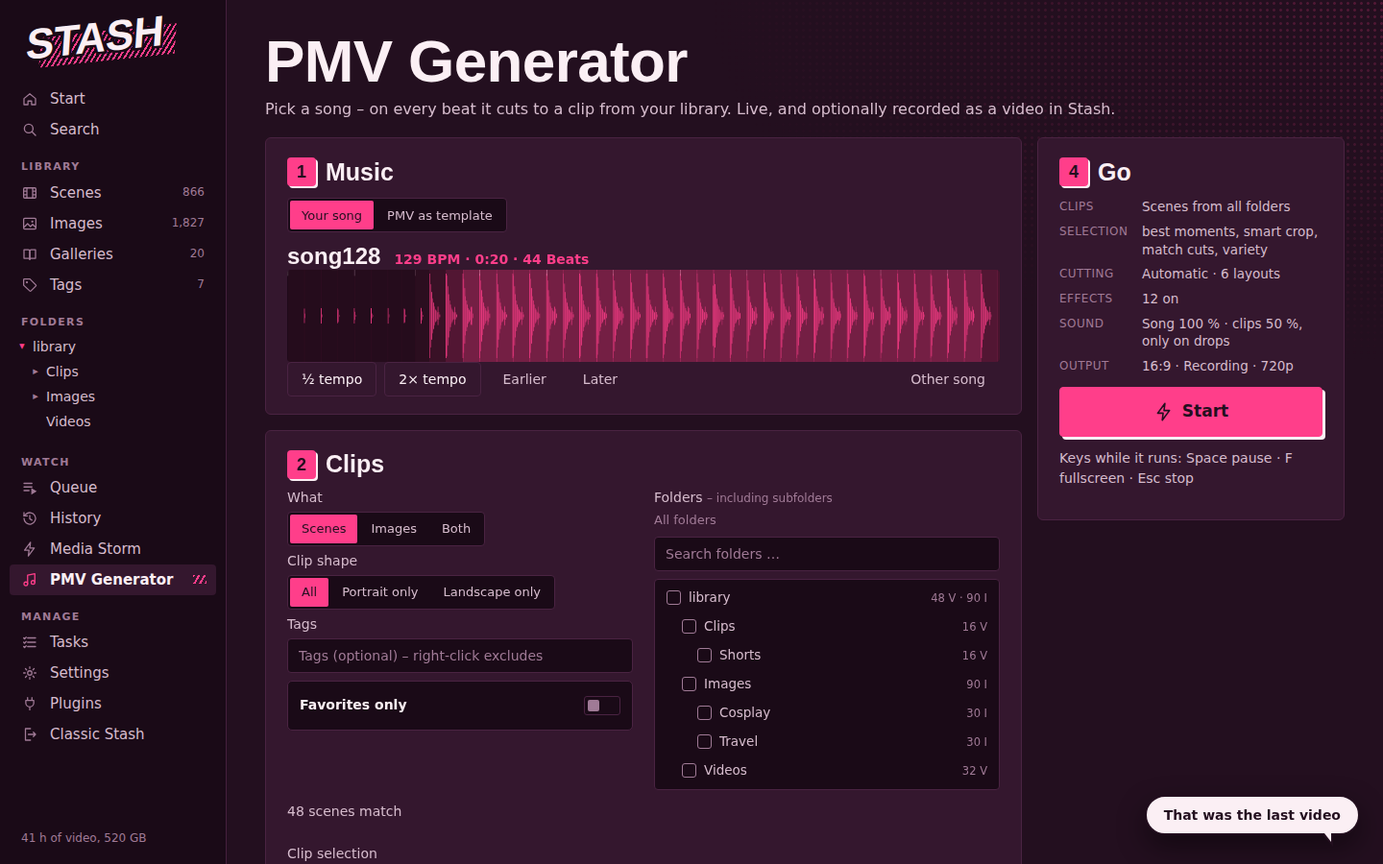
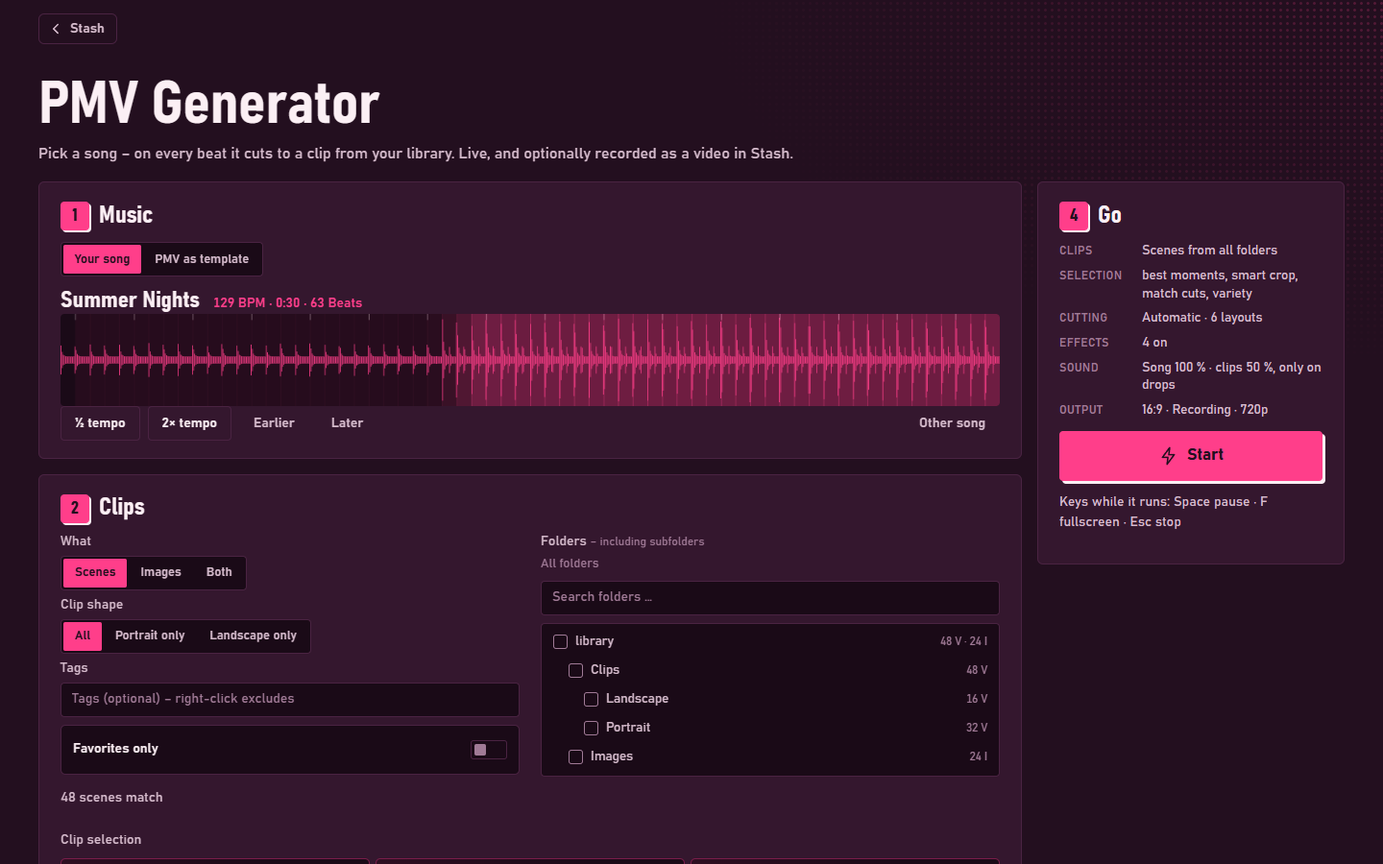
PMV Generator 2.1.0: sections instead of tabs, Fit by default, calmer effects; new screenshots
Same changes as the web version (pmvgen.github.io):
- Style settings are collapsible sections (all open, each header toggles,
  Collapse all / Expand all, remembered) instead of tabs that didn't look
  clickable.
- Fit (whole clip, blurred border) is the default instead of Fill; saved
  settings from before are switched once.
- Default effects: zoom-in entry, flash, zoom pulse and RGB split.

New screenshots of the plugin page (setup, style, live show) made with
neutral placeholder clips; the old Stash UI based ones are replaced.

diff --git a/plugins/pmvGenerator/app/js/views/pmvgen.js b/plugins/pmvGenerator/app/js/views/pmvgen.js
@@ -30,7 +30,8 @@ const DEFAULTS = {
   matchCut: true, // pick the best-matching clip at each cut
   cut: "auto",
   layouts: { full: true, kaleido: true, duo: true, trim: true, tri: true, quad: true },
-  fx: { flash: true, zoom: true, shake: true, glitch: true, stutter: true, hue: false, rgb: true, echo: true, tunnel: true, invert: true, whip: true, zoomin: true, speed: true, voice: true, vhs: false, strobe: false, text: false, kenburns: true, lines: true },
+  // Effects: a calm start – zoom-in entry, flash, zoom pulse and RGB split; the rest is opt-in
+  fx: { flash: true, zoom: true, shake: false, glitch: false, stutter: false, hue: false, rgb: true, echo: false, tunnel: false, invert: false, whip: false, zoomin: true, speed: false, voice: true, vhs: false, strobe: false, text: false, kenburns: true, lines: true },
   words: "",
   look: "none", // color look: none | warm | pink | cold | bw | noir | vivid
   lookEven: true, // even out clip brightness
@@ -42,10 +43,11 @@ const DEFAULTS = {
   title: "", // empty = song name
   format: "16:9",
   split: "cols",
-  fit: "cover",
+  fit: "contain", // contain = whole clip, blurred border (less confusing than cropping); cover = fill
   quality: 720,
   record: true,
-  tab: "cut", // last open style tab
+  collapsed: {}, // style sections the user closed (all open by default)
+  v: 2, // settings version
 };
 const FX = {
   flash: ["Flash", "Bright flash on cuts and drops"],
@@ -97,19 +99,27 @@ const CUTS = [
   ["2", "Every 2 beats", ""],
   ["4", "Every 4 beats", ""],
 ];
-const TABS = [
-  ["cut", "Cutting"],
-  ["fx", "Effects"],
-  ["look", "Look"],
-  ["sound", "Sound"],
-  ["out", "Output"],
+const SECTIONS = [
+  ["cut", "Cutting", "When to cut and which split screens"],
+  ["fx", "Effects", "What happens on cuts, beats and drops"],
+  ["look", "Look & picture", "Colors, format and how clips fill the frame"],
+  ["sound", "Sound", "Song and clip volume"],
+  ["out", "Output", "Intro, outro and recording"],
 ];
+const CHEVRON = `<svg class="kb-pmvg-chev" viewBox="0 0 24 24" aria-hidden="true"><path d="m6 9 6 6 6-6" fill="none" stroke="currentColor" stroke-width="2.2" stroke-linecap="round" stroke-linejoin="round"/></svg>`;
 
 // A row with a switch; path = "bestSpots" or "fx.flash"
 const sw = (path, name, desc) =>
   `<label class="kb-pmvg-opt"><span><b>${esc(name)}</b>${desc ? `<small>${esc(desc)}</small>` : ""}</span>` +
   `<span class="kb-switch"><input type="checkbox" data-t="${path}"><i></i></span></label>`;
 const fxSw = (k) => sw("fx." + k, FX[k][0], FX[k][1]);
+// Header of a style section: the whole bar opens/closes it
+function secHead(key) {
+  const [, name, sub] = SECTIONS.find(([k]) => k === key);
+  return `<button type="button" class="kb-pmvg-sechead" data-toggle="${key}" aria-controls="pmvg-pane-${key}">
+    <span class="kb-pmvg-sectitle"><b>${name}</b><small data-tabsum="${key}"></small></span>
+    <span class="kb-pmvg-secsub">${sub}</span>${CHEVRON}</button>`;
+}
 const getPath = (S, p) => p.split(".").reduce((o, k) => (o ? o[k] : undefined), S);
 function setPath(S, p, v) {
   const ks = p.split(".");
@@ -118,9 +128,13 @@ function setPath(S, p, v) {
 }
 
 export function render(main) {
-  const S = Object.assign({}, DEFAULTS, store.get("pmvgen", {}));
+  const stored = store.get("pmvgen", {});
+  const S = Object.assign({}, DEFAULTS, stored);
   S.fx = Object.assign({}, DEFAULTS.fx, S.fx);
   S.layouts = Object.assign({}, DEFAULTS.layouts, S.layouts);
+  S.collapsed = Object.assign({}, S.collapsed);
+  // Settings from before version 2 had "Fill" as default – people took the cropping for a bug
+  if (!stored.v) S.fit = "contain";
   if (!Array.isArray(S.folders)) S.folders = [];
   const save = () => store.set("pmvgen", S);
   let song = null; // beat detection result + name
@@ -213,66 +227,81 @@ export function render(main) {
           <span class="kb-lab-t">Mood <small>– sets cutting, layouts and effects in one go</small></span>
           <div class="kb-chips" data-presets>${Object.entries(PRESETS).map(([k, p]) => `<button type="button" class="kb-chip kb-pmvg-preset" data-preset="${k}">${p.name}</button>`).join("")}</div>
         </div>
-        <div class="kb-pmvg-tabs" role="tablist">${TABS.map(([k, l]) => `<button type="button" role="tab" data-tab="${k}">${l}<small data-tabsum="${k}"></small></button>`).join("")}</div>
+        <div class="kb-pmvg-sechead-all"><span class="kb-lab-t">Settings</span><button type="button" class="kb-btn is-ghost" data-collapseall></button></div>
 
-        <div class="kb-pmvg-pane" data-pane="cut">
-          <span class="kb-lab-t">Cutting</span>
-          <div class="kb-seg" data-seg="cut">${CUTS.map(([v, l, t]) => `<button type="button" data-v="${v}" title="${esc(t)}">${l}</button>`).join("")}</div>
-          <span class="kb-lab-t">Layouts <small>– change to the beat, the louder the more fields</small></span>
-          <div class="kb-chips kb-pmvg-layouts" data-layouts>${Object.entries(LAYOUTS).map(([k, l]) => `<button type="button" class="kb-chip" data-l="${k}" title="${esc(l.hint)}">${layoutIcon(k)}${l.name}</button>`).join("")}</div>
-          <span class="kb-lab-t">Fields in 2-/3-way layouts</span>
-          <div class="kb-seg" data-seg="split"><button type="button" data-v="cols" title="Columns – also in portrait format">side by side</button><button type="button" data-v="rows" title="Rows">stacked</button></div>
-          <p class="kb-hint kb-pmvg-tip" data-tip hidden></p>
-        </div>
-
-        <div class="kb-pmvg-pane" data-pane="fx" hidden>
-          ${FX_GROUPS.map(([name, sub, keys]) => `
-            <div class="kb-pmvg-group">
-              <div class="kb-pmvg-grouphead"><b>${name}</b>${sub ? `<small>${sub}</small>` : ""}<span class="kb-spacer"></span>
-                <button type="button" class="kb-btn is-ghost kb-pmvg-all" data-all="${keys.join(",")}">All on</button></div>
-              <div class="kb-pmvg-opts">${keys.map(fxSw).join("")}</div>
-              ${keys.includes("text") ? `<input class="kb-field kb-pmvg-words" data-words placeholder="Words for “Text”, comma separated – e.g. DROP, MORE, YES" value="${esc(S.words)}">` : ""}
-            </div>`).join("")}
-        </div>
-
-        <div class="kb-pmvg-pane" data-pane="look" hidden>
-          <span class="kb-lab-t">Color look <small>– all clips in the same color mood</small></span>
-          <div class="kb-seg kb-pmvg-looks" data-seg="look">${LOOKS.map(([v, l]) => `<button type="button" data-v="${v}"><i class="kb-pmvg-lookdot is-${v}"></i>${l}</button>`).join("")}</div>
-          <div class="kb-pmvg-opts">
-            ${sw("lookEven", "Even out brightness", "Clips that are too dark get brightened, too bright ones toned down – looks all of a piece")}
-            ${LOOK_FX.map(fxSw).join("")}
-          </div>
-          <span class="kb-lab-t">Picture</span>
-          <div class="kb-pmvg-row">
-            <div class="kb-seg" data-seg="format"><button type="button" data-v="16:9">16:9 landscape</button><button type="button" data-v="9:16">9:16 portrait</button></div>
-            <div class="kb-seg" data-seg="fit"><button type="button" data-v="cover" title="Picture fills everything, edges are cropped">Fill</button><button type="button" data-v="contain" title="Whole picture, rest blurred">Fit</button></div>
+        <div class="kb-pmvg-sec" data-sec="cut">
+          ${secHead("cut")}
+          <div class="kb-pmvg-pane" id="pmvg-pane-cut" data-pane="cut">
+            <span class="kb-lab-t">When to cut</span>
+            <div class="kb-seg" data-seg="cut">${CUTS.map(([v, l, t]) => `<button type="button" data-v="${v}" title="${esc(t)}">${l}</button>`).join("")}</div>
+            <span class="kb-lab-t">Layouts <small>– change to the beat, the louder the more fields</small></span>
+            <div class="kb-chips kb-pmvg-layouts" data-layouts>${Object.entries(LAYOUTS).map(([k, l]) => `<button type="button" class="kb-chip" data-l="${k}" title="${esc(l.hint)}">${layoutIcon(k)}${l.name}</button>`).join("")}</div>
+            <span class="kb-lab-t">Fields in 2-/3-way layouts</span>
+            <div class="kb-seg" data-seg="split"><button type="button" data-v="cols" title="Columns – also in portrait format">side by side</button><button type="button" data-v="rows" title="Rows">stacked</button></div>
+            <p class="kb-hint kb-pmvg-tip" data-tip hidden></p>
           </div>
         </div>
 
-        <div class="kb-pmvg-pane" data-pane="sound" hidden>
-          <span class="kb-lab-t">Volume</span>
-          <div class="kb-pmvg-sound">
-            <label class="kb-pmvg-range"><span>${icon("music")}Song</span><input type="range" min="0" max="100" step="5" data-r="songVol" aria-label="Song volume"><output data-ro="songVol"></output></label>
-            <label class="kb-pmvg-range" data-clipvol><span>${icon("film")}Clips</span><input type="range" min="0" max="100" step="5" data-r="clipVol" aria-label="Clip volume"><output data-ro="clipVol"></output></label>
+        <div class="kb-pmvg-sec" data-sec="fx">
+          ${secHead("fx")}
+          <div class="kb-pmvg-pane" id="pmvg-pane-fx" data-pane="fx">
+            ${FX_GROUPS.map(([name, sub, keys]) => `
+              <div class="kb-pmvg-group">
+                <div class="kb-pmvg-grouphead"><b>${name}</b>${sub ? `<small>${sub}</small>` : ""}<span class="kb-spacer"></span>
+                  <button type="button" class="kb-btn is-ghost kb-pmvg-all" data-all="${keys.join(",")}">All on</button></div>
+                <div class="kb-pmvg-opts">${keys.map(fxSw).join("")}</div>
+                ${keys.includes("text") ? `<input class="kb-field kb-pmvg-words" data-words placeholder="Words for “Text”, comma separated – e.g. DROP, MORE, YES" value="${esc(S.words)}">` : ""}
+              </div>`).join("")}
           </div>
-          <div class="kb-pmvg-opts">${fxSw("voice")}</div>
-          <span class="kb-lab-t" data-voicewhen>Clip audio plays</span>
-          <div class="kb-seg" data-seg="voiceMode"><button type="button" data-v="drops" title="Fade in briefly on drops only – like the voice-overs in real PMVs">Only on drops</button><button type="button" data-v="always" title="The clips can be heard all the time, under the song">Always</button></div>
-          <p class="kb-hint" data-voicehint></p>
-          <p class="kb-hint">Both end up in the recording exactly like this. With several clips at once (split screen) they share the clip volume.</p>
         </div>
 
-        <div class="kb-pmvg-pane" data-pane="out" hidden>
-          <div class="kb-pmvg-opts">
-            ${sw("intro", "Intro", "Title card at the start: your title slams in, comic-SFX style")}
-            ${sw("outro", "Outro", "Credits at the end: the picture fades dark, title and number of clips")}
+        <div class="kb-pmvg-sec" data-sec="look">
+          ${secHead("look")}
+          <div class="kb-pmvg-pane" id="pmvg-pane-look" data-pane="look">
+            <span class="kb-lab-t">Color look <small>– all clips in the same color mood</small></span>
+            <div class="kb-seg kb-pmvg-looks" data-seg="look">${LOOKS.map(([v, l]) => `<button type="button" data-v="${v}"><i class="kb-pmvg-lookdot is-${v}"></i>${l}</button>`).join("")}</div>
+            <div class="kb-pmvg-opts">
+              ${sw("lookEven", "Even out brightness", "Clips that are too dark get brightened, too bright ones toned down – looks all of a piece")}
+              ${LOOK_FX.map(fxSw).join("")}
+            </div>
+            <span class="kb-lab-t">Picture <small>– “Fit” shows the whole clip, “Fill” crops it to fill the frame</small></span>
+            <div class="kb-pmvg-row">
+              <div class="kb-seg" data-seg="format"><button type="button" data-v="16:9">16:9 landscape</button><button type="button" data-v="9:16">9:16 portrait</button></div>
+              <div class="kb-seg" data-seg="fit"><button type="button" data-v="contain" title="Whole picture, rest blurred">Fit</button><button type="button" data-v="cover" title="Picture fills everything, edges are cropped">Fill</button></div>
+            </div>
           </div>
-          <input class="kb-field" data-title placeholder="Title for intro/outro – empty = song name" value="${esc(S.title)}">
-          <div class="kb-pmvg-opts">
-            ${sw("record", "Record", "Saves the result as a video – then download it or save it straight to Stash as a scene")}
+        </div>
+
+        <div class="kb-pmvg-sec" data-sec="sound">
+          ${secHead("sound")}
+          <div class="kb-pmvg-pane" id="pmvg-pane-sound" data-pane="sound">
+            <span class="kb-lab-t">Volume</span>
+            <div class="kb-pmvg-sound">
+              <label class="kb-pmvg-range"><span>${icon("music")}Song</span><input type="range" min="0" max="100" step="5" data-r="songVol" aria-label="Song volume"><output data-ro="songVol"></output></label>
+              <label class="kb-pmvg-range" data-clipvol><span>${icon("film")}Clips</span><input type="range" min="0" max="100" step="5" data-r="clipVol" aria-label="Clip volume"><output data-ro="clipVol"></output></label>
+            </div>
+            <div class="kb-pmvg-opts">${fxSw("voice")}</div>
+            <span class="kb-lab-t" data-voicewhen>Clip audio plays</span>
+            <div class="kb-seg" data-seg="voiceMode"><button type="button" data-v="drops" title="Fade in briefly on drops only – like the voice-overs in real PMVs">Only on drops</button><button type="button" data-v="always" title="The clips can be heard all the time, under the song">Always</button></div>
+            <p class="kb-hint" data-voicehint></p>
+            <p class="kb-hint">Both end up in the recording exactly like this. With several clips at once (split screen) they share the clip volume.</p>
           </div>
-          <span class="kb-lab-t">Recording quality</span>
-          <div class="kb-seg" data-seg="quality"><button type="button" data-v="720">720p</button><button type="button" data-v="1080">1080p</button></div>
+        </div>
+
+        <div class="kb-pmvg-sec" data-sec="out">
+          ${secHead("out")}
+          <div class="kb-pmvg-pane" id="pmvg-pane-out" data-pane="out">
+            <div class="kb-pmvg-opts">
+              ${sw("intro", "Intro", "Title card at the start: your title slams in, comic-SFX style")}
+              ${sw("outro", "Outro", "Credits at the end: the picture fades dark, title and number of clips")}
+            </div>
+            <input class="kb-field" data-title placeholder="Title for intro/outro – empty = song name" value="${esc(S.title)}">
+            <div class="kb-pmvg-opts">
+              ${sw("record", "Record", "Saves the result as a video – then download it or save it straight to Stash as a scene")}
+            </div>
+            <span class="kb-lab-t">Recording quality</span>
+            <div class="kb-seg" data-seg="quality"><button type="button" data-v="720">720p</button><button type="button" data-v="1080">1080p</button></div>
+          </div>
         </div>
       </section>
       </div>
@@ -301,12 +330,15 @@ export function render(main) {
     const words = $("[data-words]");
     if (words) words.hidden = !S.fx.text;
     $("[data-title]").hidden = !S.intro && !S.outro;
-    main.querySelectorAll("[data-tab]").forEach((b) => {
-      const on = b.dataset.tab === S.tab;
-      b.classList.toggle("is-on", on);
-      b.setAttribute("aria-selected", on);
+    main.querySelectorAll("[data-sec]").forEach((sec) => {
+      const open = !S.collapsed[sec.dataset.sec];
+      sec.classList.toggle("is-open", open);
+      sec.querySelector("[data-toggle]").setAttribute("aria-expanded", open);
+      sec.querySelector("[data-pane]").hidden = !open;
     });
-    main.querySelectorAll("[data-pane]").forEach((p) => (p.hidden = p.dataset.pane !== S.tab));
+    const anyOpen = SECTIONS.some(([k]) => !S.collapsed[k]);
+    $("[data-collapseall]").innerHTML = `${CHEVRON}${anyOpen ? "Collapse all" : "Expand all"}`;
+    $("[data-collapseall]").classList.toggle("is-closed", !anyOpen);
     main.querySelectorAll("[data-r]").forEach((r) => {
       r.value = S[r.dataset.r];
       r.style.setProperty("--p", S[r.dataset.r] + "%");
@@ -322,7 +354,7 @@ export function render(main) {
     paintSummary();
   }
 
-  // Summary: on the tabs and in the Go card
+  // Summary: on the section headers and in the Go card
   function paintSummary() {
     const fxOn = Object.keys(FX).filter((k) => S.fx[k] && !LOOK_FX.includes(k) && k !== "voice").length;
     const lays = Object.keys(LAYOUTS).filter((k) => S.layouts[k]).length;
@@ -369,9 +401,15 @@ export function render(main) {
       if (key === "source" || key === "shape") updateCount();
       paintTip();
     }
-    const tab = e.target.closest("[data-tab]");
-    if (tab) {
-      S.tab = tab.dataset.tab;
+    const tog = e.target.closest("[data-toggle]");
+    if (tog) {
+      S.collapsed[tog.dataset.toggle] = !S.collapsed[tog.dataset.toggle];
+      save();
+      paintSegs();
+    }
+    if (e.target.closest("[data-collapseall]")) {
+      const close = SECTIONS.some(([k]) => !S.collapsed[k]);
+      S.collapsed = close ? Object.fromEntries(SECTIONS.map(([k]) => [k, true])) : {};
       save();
       paintSegs();
     }

diff --git a/plugins/pmvGenerator/app/stage.css b/plugins/pmvGenerator/app/stage.css
@@ -276,19 +276,31 @@
 .kb-pmvg-opt b { display: block; color: var(--text); font: 600 14px/1.25 var(--f-text); }
 .kb-pmvg-opt small { display: block; margin-top: 2px; color: var(--faint); font: 400 12.5px/1.35 var(--f-text); }
 
-/* Style tabs */
-.kb-pmvg-tabs { display: grid; grid-template-columns: repeat(5, minmax(0, 1fr)); gap: 4px; padding: 3px; border: 1px solid var(--bg-3); border-radius: 6px; background: var(--base); }
-.kb-pmvg-tabs button {
-  display: flex; flex-direction: column; align-items: flex-start; gap: 3px; min-width: 0; padding: 8px 12px;
-  border: 0; border-radius: 4px; color: var(--text-2); font: 600 15px/1.1 var(--f-label); text-align: left; background: transparent; cursor: pointer;
+/* Style sections: open by default, each header bar opens/closes its section */
+.kb-pmvg-sechead-all { display: flex; align-items: center; justify-content: space-between; gap: 10px; margin-top: 4px; }
+.kb-pmvg-sechead-all .kb-btn { gap: 6px; }
+.kb-pmvg-sechead-all .kb-pmvg-chev { width: 16px; height: 16px; transform: rotate(180deg); transition: transform .2s var(--ease); }
+.kb-pmvg-sechead-all .kb-btn.is-closed .kb-pmvg-chev { transform: none; }
+.kb-pmvg-sec { border: 1px solid var(--bg-3); border-radius: 6px; background: var(--base); overflow: hidden; }
+.kb-pmvg-sec + .kb-pmvg-sec { margin-top: -4px; }
+.kb-pmvg-sechead {
+  display: flex; align-items: center; gap: 6px 14px; width: 100%; padding: 12px 14px 12px 16px;
+  border: 0; border-left: 4px solid var(--pink); color: var(--text); text-align: left; background: var(--bg-3); cursor: pointer;
+  transition: background-color .15s ease;
 }
-.kb-pmvg-tabs button small { max-width: 100%; overflow: hidden; color: var(--faint); font: 400 12px/1.2 var(--f-text); white-space: nowrap; text-overflow: ellipsis; }
-.kb-pmvg-tabs button:hover { color: var(--text); background: var(--bg-2); }
-.kb-pmvg-tabs button.is-on { color: var(--ink); background: var(--pink); }
-.kb-pmvg-tabs button.is-on small { color: rgba(35, 15, 31, .75); }
+.kb-pmvg-sechead:hover { background: #5a2b50; }
+.kb-pmvg-sechead:focus-visible { outline: 2px solid var(--pink); outline-offset: -2px; }
+.kb-pmvg-sectitle { display: flex; flex-direction: column; gap: 3px; min-width: 0; }
+.kb-pmvg-sectitle b { font: 700 19px/1.05 var(--f-display); font-stretch: 85%; }
+.kb-pmvg-sectitle small { overflow: hidden; color: var(--pink-2); font: 500 12.5px/1.2 var(--f-label); white-space: nowrap; text-overflow: ellipsis; }
+.kb-pmvg-secsub { flex: 1; min-width: 0; color: var(--text-2); font: 400 13px/1.3 var(--f-text); text-align: right; }
+.kb-pmvg-chev { flex: none; width: 22px; height: 22px; color: var(--pink); transition: transform .2s var(--ease); }
+.kb-pmvg-sec.is-open .kb-pmvg-sechead .kb-pmvg-chev { transform: rotate(180deg); }
+.kb-pmvg-sec:not(.is-open) .kb-pmvg-sechead { border-left-color: var(--faint); }
+.kb-pmvg-sec > .kb-pmvg-pane { padding: 14px 16px 16px; }
 @media (max-width: 560px) {
-  .kb-pmvg-tabs { grid-template-columns: repeat(2, minmax(0, 1fr)); }
-  .kb-pmvg-tabs button:last-child { grid-column: 1 / -1; }
+  .kb-pmvg-secsub { display: none; }
+  .kb-pmvg-sectitle { flex: 1; }
 }
 .kb-pmvg-pane { display: flex; flex-direction: column; align-items: flex-start; gap: 10px; }
 .kb-pmvg-pane[hidden] { display: none; }

diff --git a/plugins/stashui/app/stage.css b/plugins/stashui/app/stage.css
@@ -276,19 +276,31 @@
 .kb-pmvg-opt b { display: block; color: var(--text); font: 600 14px/1.25 var(--f-text); }
 .kb-pmvg-opt small { display: block; margin-top: 2px; color: var(--faint); font: 400 12.5px/1.35 var(--f-text); }
 
-/* Style tabs */
-.kb-pmvg-tabs { display: grid; grid-template-columns: repeat(5, minmax(0, 1fr)); gap: 4px; padding: 3px; border: 1px solid var(--bg-3); border-radius: 6px; background: var(--base); }
-.kb-pmvg-tabs button {
-  display: flex; flex-direction: column; align-items: flex-start; gap: 3px; min-width: 0; padding: 8px 12px;
-  border: 0; border-radius: 4px; color: var(--text-2); font: 600 15px/1.1 var(--f-label); text-align: left; background: transparent; cursor: pointer;
+/* Style sections: open by default, each header bar opens/closes its section */
+.kb-pmvg-sechead-all { display: flex; align-items: center; justify-content: space-between; gap: 10px; margin-top: 4px; }
+.kb-pmvg-sechead-all .kb-btn { gap: 6px; }
+.kb-pmvg-sechead-all .kb-pmvg-chev { width: 16px; height: 16px; transform: rotate(180deg); transition: transform .2s var(--ease); }
+.kb-pmvg-sechead-all .kb-btn.is-closed .kb-pmvg-chev { transform: none; }
+.kb-pmvg-sec { border: 1px solid var(--bg-3); border-radius: 6px; background: var(--base); overflow: hidden; }
+.kb-pmvg-sec + .kb-pmvg-sec { margin-top: -4px; }
+.kb-pmvg-sechead {
+  display: flex; align-items: center; gap: 6px 14px; width: 100%; padding: 12px 14px 12px 16px;
+  border: 0; border-left: 4px solid var(--pink); color: var(--text); text-align: left; background: var(--bg-3); cursor: pointer;
+  transition: background-color .15s ease;
 }
-.kb-pmvg-tabs button small { max-width: 100%; overflow: hidden; color: var(--faint); font: 400 12px/1.2 var(--f-text); white-space: nowrap; text-overflow: ellipsis; }
-.kb-pmvg-tabs button:hover { color: var(--text); background: var(--bg-2); }
-.kb-pmvg-tabs button.is-on { color: var(--ink); background: var(--pink); }
-.kb-pmvg-tabs button.is-on small { color: rgba(35, 15, 31, .75); }
+.kb-pmvg-sechead:hover { background: #5a2b50; }
+.kb-pmvg-sechead:focus-visible { outline: 2px solid var(--pink); outline-offset: -2px; }
+.kb-pmvg-sectitle { display: flex; flex-direction: column; gap: 3px; min-width: 0; }
+.kb-pmvg-sectitle b { font: 700 19px/1.05 var(--f-display); font-stretch: 85%; }
+.kb-pmvg-sectitle small { overflow: hidden; color: var(--pink-2); font: 500 12.5px/1.2 var(--f-label); white-space: nowrap; text-overflow: ellipsis; }
+.kb-pmvg-secsub { flex: 1; min-width: 0; color: var(--text-2); font: 400 13px/1.3 var(--f-text); text-align: right; }
+.kb-pmvg-chev { flex: none; width: 22px; height: 22px; color: var(--pink); transition: transform .2s var(--ease); }
+.kb-pmvg-sec.is-open .kb-pmvg-sechead .kb-pmvg-chev { transform: rotate(180deg); }
+.kb-pmvg-sec:not(.is-open) .kb-pmvg-sechead { border-left-color: var(--faint); }
+.kb-pmvg-sec > .kb-pmvg-pane { padding: 14px 16px 16px; }
 @media (max-width: 560px) {
-  .kb-pmvg-tabs { grid-template-columns: repeat(2, minmax(0, 1fr)); }
-  .kb-pmvg-tabs button:last-child { grid-column: 1 / -1; }
+  .kb-pmvg-secsub { display: none; }
+  .kb-pmvg-sectitle { flex: 1; }
 }
 .kb-pmvg-pane { display: flex; flex-direction: column; align-items: flex-start; gap: 10px; }
 .kb-pmvg-pane[hidden] { display: none; }

diff --git a/plugins/pmvGenerator/README.md b/plugins/pmvGenerator/README.md
@@ -4,7 +4,9 @@ Pick a song – on every beat it cuts to a clip from your Stash library: split-s
 
 Works with classic Stash and with the **Stash UI** plugin: with Stash UI installed, the generator shows up in its menu under **Watch**, and its back link and saved scenes lead back into Stash UI.
 
-![PMV Generator](../../docs/screenshots/pmvgen-standalone.png)
+![PMV Generator: song and clips](../../docs/screenshots/pmvgen-setup.png)
+
+![Style: moods and collapsible sections](../../docs/screenshots/pmvgen-style.png)
 
 ![Live show](../../docs/screenshots/pmvgen-run.png)
 
@@ -21,13 +23,13 @@ Open it with the **PMV** button in the Stash navbar, from **Watch → PMV Genera
      - **Smart crop**: when a clip has to be cropped, the crop follows what matters in the picture (skin, edges) instead of sticking to the center; re-measured every 0.4 s and smoothly followed.
      - **Match cuts**: at each cut, the ready clip that best matches the outgoing one in color, brightness and composition (where the subject sits) comes next.
      - **Variety**: the same scene doesn't come back within the last 24 clips, the same performer preferably not within the last 4 (with a small selection it eventually can't be avoided).
-3. **Style** – at the top the **mood** (*PMV classic*, *Maximal*, *Hypno*, *Clean* set cutting, layouts and effects in one go), below five tabs:
+3. **Style** – at the top the **mood** (*PMV classic*, *Maximal*, *Hypno*, *Clean* set cutting, layouts and effects in one go), below five sections – all open; click a section's header to collapse it, or use **Collapse all**:
    - **Cutting**: automatic by energy (calm every 4 beats, medium every 2, loud every beat) or fixed · **Layouts** (split screens like in real PMVs): fullscreen, kaleidoscope, 2-way, **3-way mirrored** (the same clip mirrored left and right, a different one in the middle), 3-way, 4-way. Calm parts stay fullscreen, loud parts switch between the 3-way layouts, drops jump straight into many fields; narrow fields prefer portrait clips · **Fields in 2-/3-way layouts**: side by side or stacked.
-   - **Effects**, grouped by occasion, each group with “All on/off”:
+   - **Effects**, grouped by occasion, each group with “All on/off” (on by default: zoom-in entry, flash, zoom pulse, RGB split):
      - *On cuts*: transitions (motion blur), zoom-in entry, flash
      - *On the beat*: zoom pulse, shake, **speed ramps** (slow motion in calm parts, faster in loud ones, a burst on drops), stutter, strobe (off by default – careful if you are sensitive to light)
      - *On drops*: RGB split, glitch, tunnel, negative, echo, **text** (your own words in SFX style)
-   - **Picture**: **color look** for all clips – Original, Warm, Pink, Cold, Vivid, Black & white, Noir · **Even out brightness** (clips that are too dark get brightened, too bright ones toned down) · color rush, VHS, **image drift** (Ken Burns on still images), **glowing dividers** · format 16:9 or 9:16, fill the picture or fit it completely with a blurred border.
+   - **Look & picture**: **color look** for all clips – Original, Warm, Pink, Cold, Vivid, Black & white, Noir · **Even out brightness** (clips that are too dark get brightened, too bright ones toned down) · color rush, VHS, **image drift** (Ken Burns on still images), **glowing dividers** · format 16:9 or 9:16 · **Fit** (default: the whole clip, with a blurred border) or **Fill** (crops the clip to fill the field).
    - **Sound**: sliders for the volume of the **song** and the **clips** (0–100 % each) · **clip audio** on/off · **clip audio plays** *only on drops* (the original audio of the biggest clip fades in for a few beats, like the voice-overs in real PMVs) or *always* (all visible clips play audibly under the song; in split screens they share the clip volume). Everything ends up in the recording exactly like this.
    - **Output**: **intro** (your title slams in on a pink hatched bar, ~3 s) and **outro** (the picture fades dark, title and number of clips, the last second black); title of your choice, empty = song name · **Record** in 720p or 1080p.
 4. **Go**: runs as a fullscreen show (Space pause, F fullscreen, Esc stop). The bar at the top lets you adjust the sound live: sliders for **song** and **clips**, and the button next to them cycles clip audio through *off → on drops → always*. This applies right away (including the recording) and is remembered for the next show. With **Record** you get a video (WebM): preview, **Download** or **Save to Stash** – it lands in `<first video library>/PMV Generator`, gets scanned and receives the title “PMV – song” and the tag “PMV Generator”.
